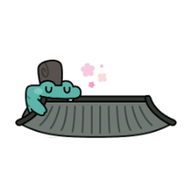
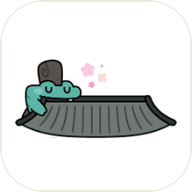
아이콘 모서리 둥글게

diff --git a/sw.js b/sw.js
@@ -1,7 +1,7 @@
 // 홈 화면 앱용: 지도 화면·자료를 저장해 두어 신호가 약한 유적지에서도 열리게 한다.
 // 이 사이트 파일은 '먼저 새로 받고, 안 되면 저장본'(고친 내용이 바로 보이게), 지도 프로그램(cdnjs)은 저장본 먼저.
 // 지도 바탕(OpenStreetMap 타일)은 따로 저장하지 않는다(사용 정책).
-const CACHE = "hcm-v2";  // 저장 파일(아이콘 등)을 바꾸면 숫자를 올린다
+const CACHE = "hcm-v3";  // 저장 파일(아이콘 등)을 바꾸면 숫자를 올린다
 const SHELL = ["./", "index.html", "data.js", "heritage_all.js", "manifest.webmanifest",
   "icons/icon-192.png", "icons/icon-512.png", "icons/apple-touch-icon.png", "icons/favicon-32.png",
   "stamps/stamp-museum.svg", "stamps/stamp-town.svg", "stamps/stamp-park.svg"];
